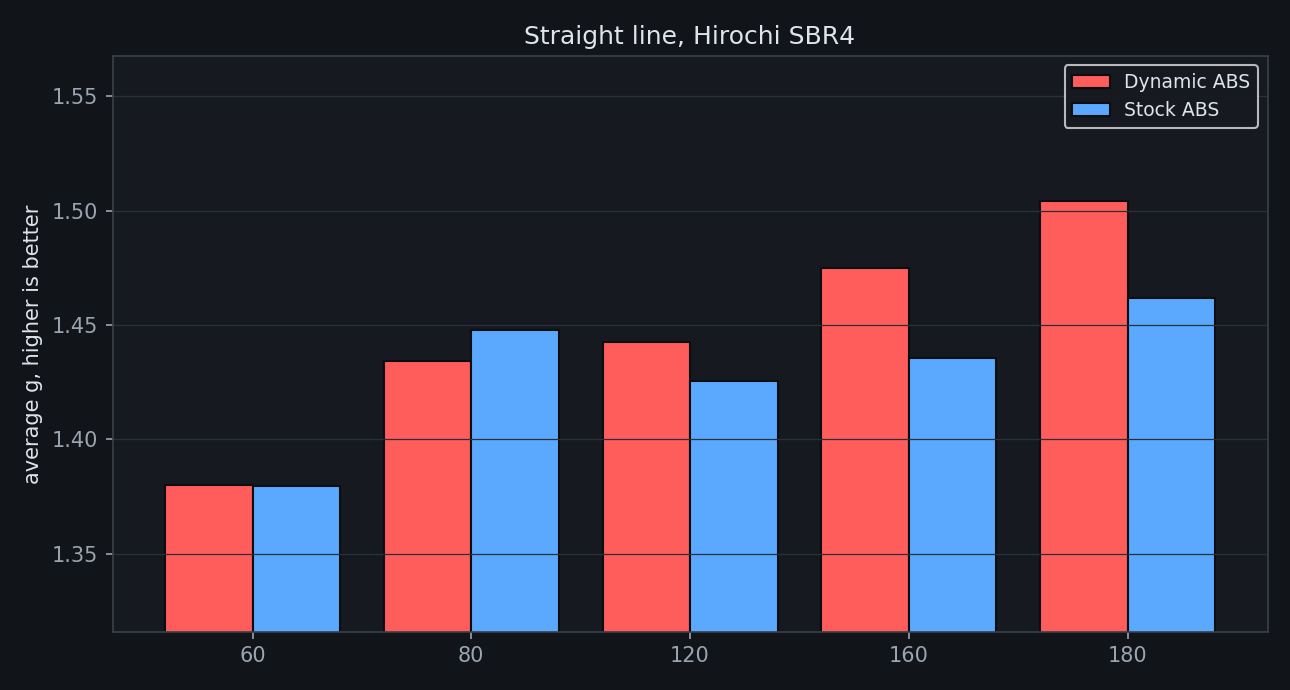
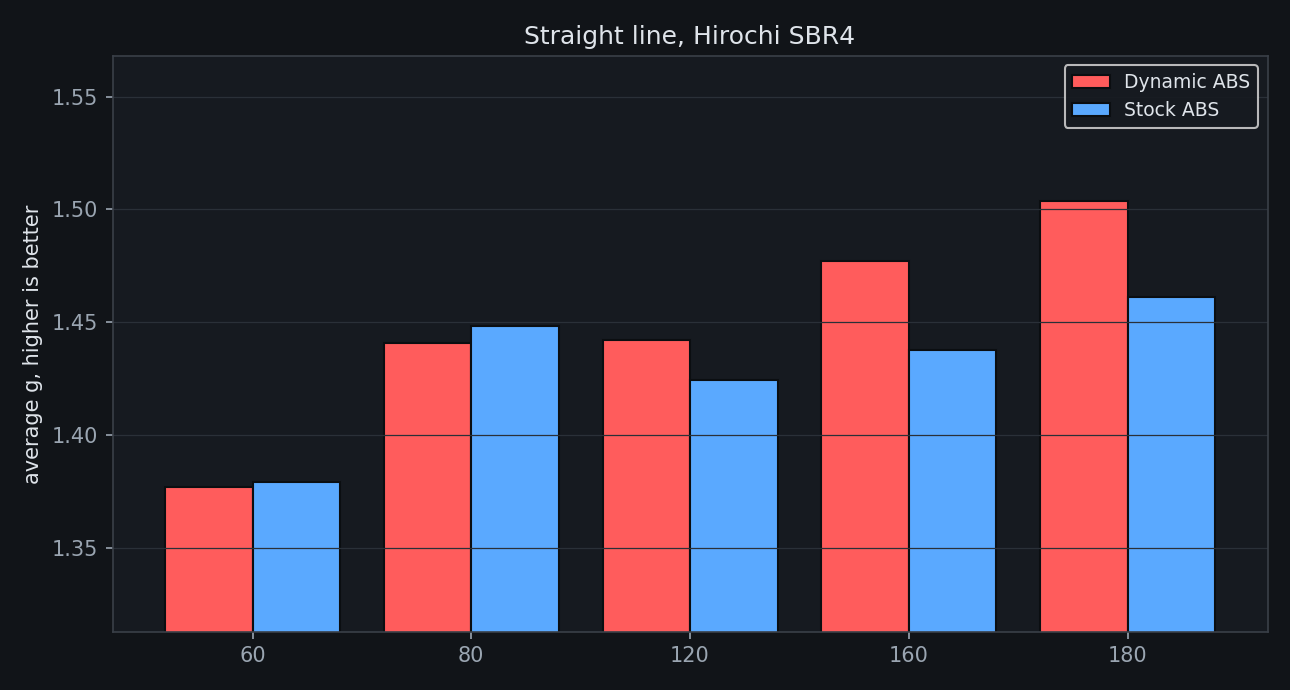
Publish V4.00: results rebuilt with a full respawn before every stop, so no state carries between measurements

diff --git a/README.md b/README.md
@@ -33,11 +33,11 @@ Tested on BeamNG.drive 0.39.4.0.20972 for the surface areas and BeamNG.tech 0.37
 
 | Speed | Average g against stock | Cars |
 |---|---|---|
-| 60 miles per hour | +0.0106 | 4 |
-| 80 miles per hour | +0.0054 | 4 |
-| 120 miles per hour | +0.0126 | 4 |
-| 160 miles per hour | +0.0442 | 2 |
-| 180 miles per hour | +0.0417 | 2 |
+| 60 miles per hour | +0.0137 | 4 |
+| 80 miles per hour | +0.0043 | 4 |
+| 120 miles per hour | +0.0135 | 4 |
+| 160 miles per hour | +0.0395 | 2 |
+| 180 miles per hour | +0.0438 | 2 |
 
 ### Cornering
 
